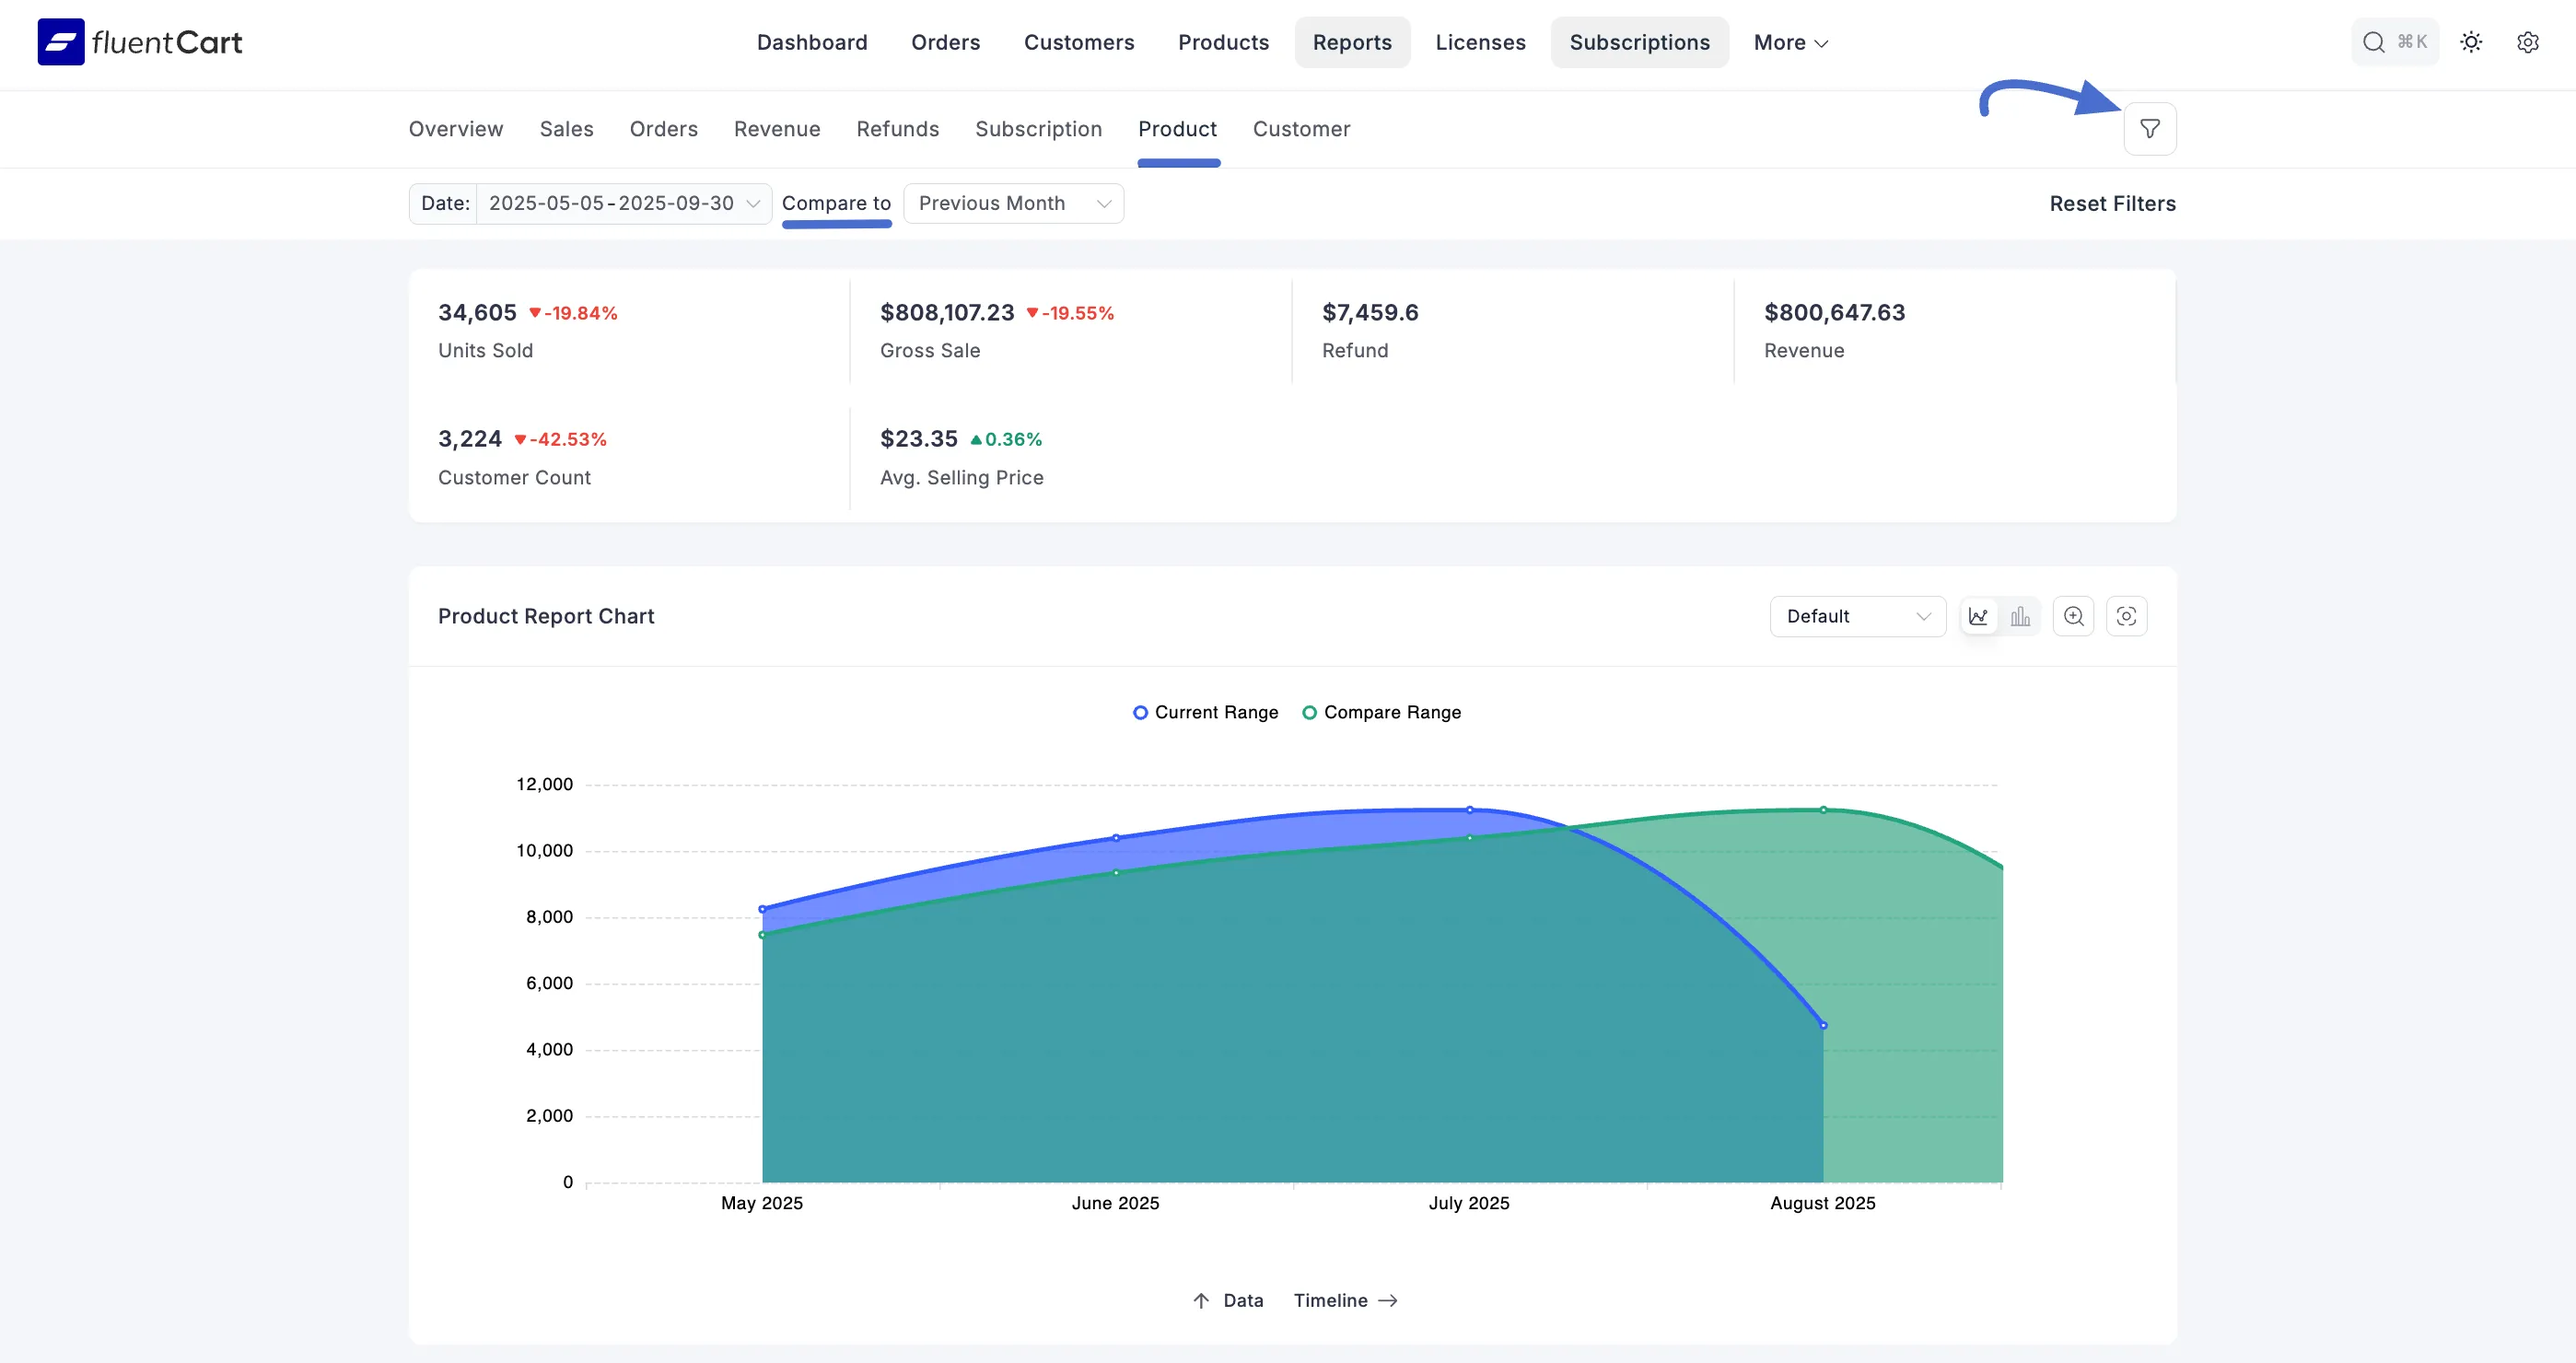
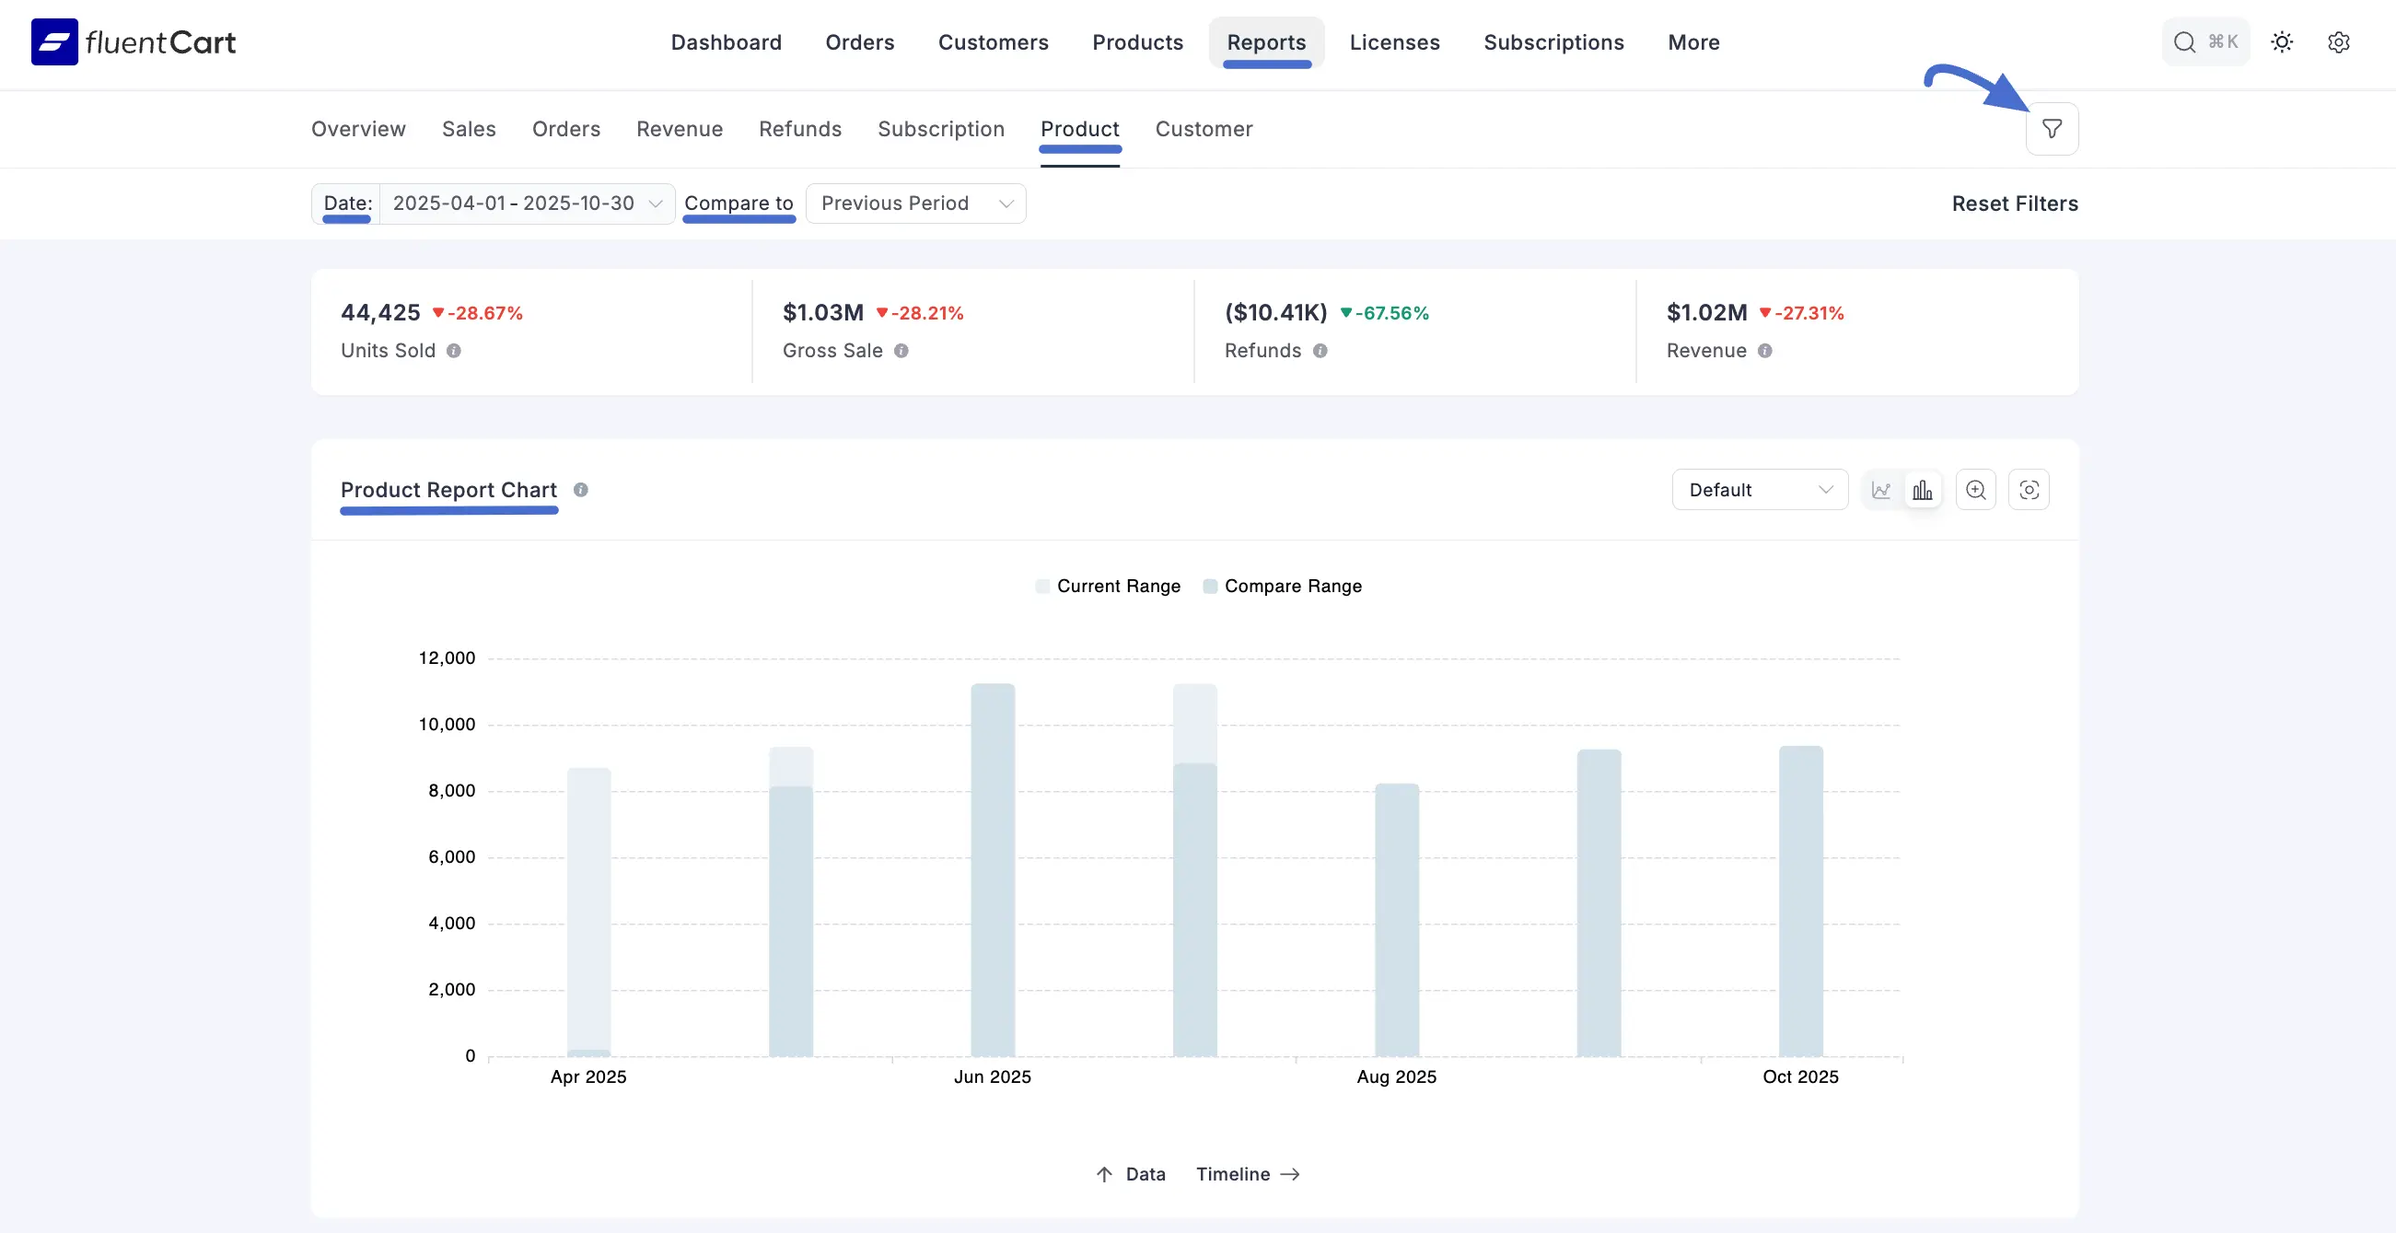
Update Product Report doc
Product Report doc description update and image change

diff --git a/guide/reporting-analytics/product-report.md b/guide/reporting-analytics/product-report.md
@@ -21,10 +21,8 @@ At the top of the **Product Report**, you will find summary cards highlighting y
 
 * **Units Sold:** The total quantity of all product units sold.
 * **Gross Sale:** The total amount of money made from product sales before deductions.
-* **Refund:** The total monetary value of refunds for these products.
+* **Refunds:** The total monetary value of refunds for these products.
 * **Revenue:** The final income from products after refunds are subtracted.
-* **Customer Count:** The total number of unique customers who purchased products.
-* **Avg. Selling Price:** The average price of the products sold.
 
 Each metric also includes a percentage that indicates the increase or decrease compared to the period you are comparing against.
 
@@ -42,7 +40,7 @@ This chart gives you a picture of your overall product performance, visually com
 Below the main chart, a detailed comparison table allows you to analyze the performance of individual products between two specific months. Then, the table will then show:
 
 * **Product:** This column lists your individual products.
-* **Comparison:** This unique column uses a bar chart to visually compare the sales numbers for each of the two months you selected, making it easy to see which products are trending up or down.
+* **Sales:** This unique column uses a bar chart to visually compare the sales numbers for each of the two months you selected, making it easy to see which products are trending up or down.
 * **Change:** This column shows the exact percentage of change between the two months, color-coded for a quick view of performance.
 
    ![Screenshot of Product Performanance Comparison](/images/reporting-analytics/product/product-performanance.webp)
